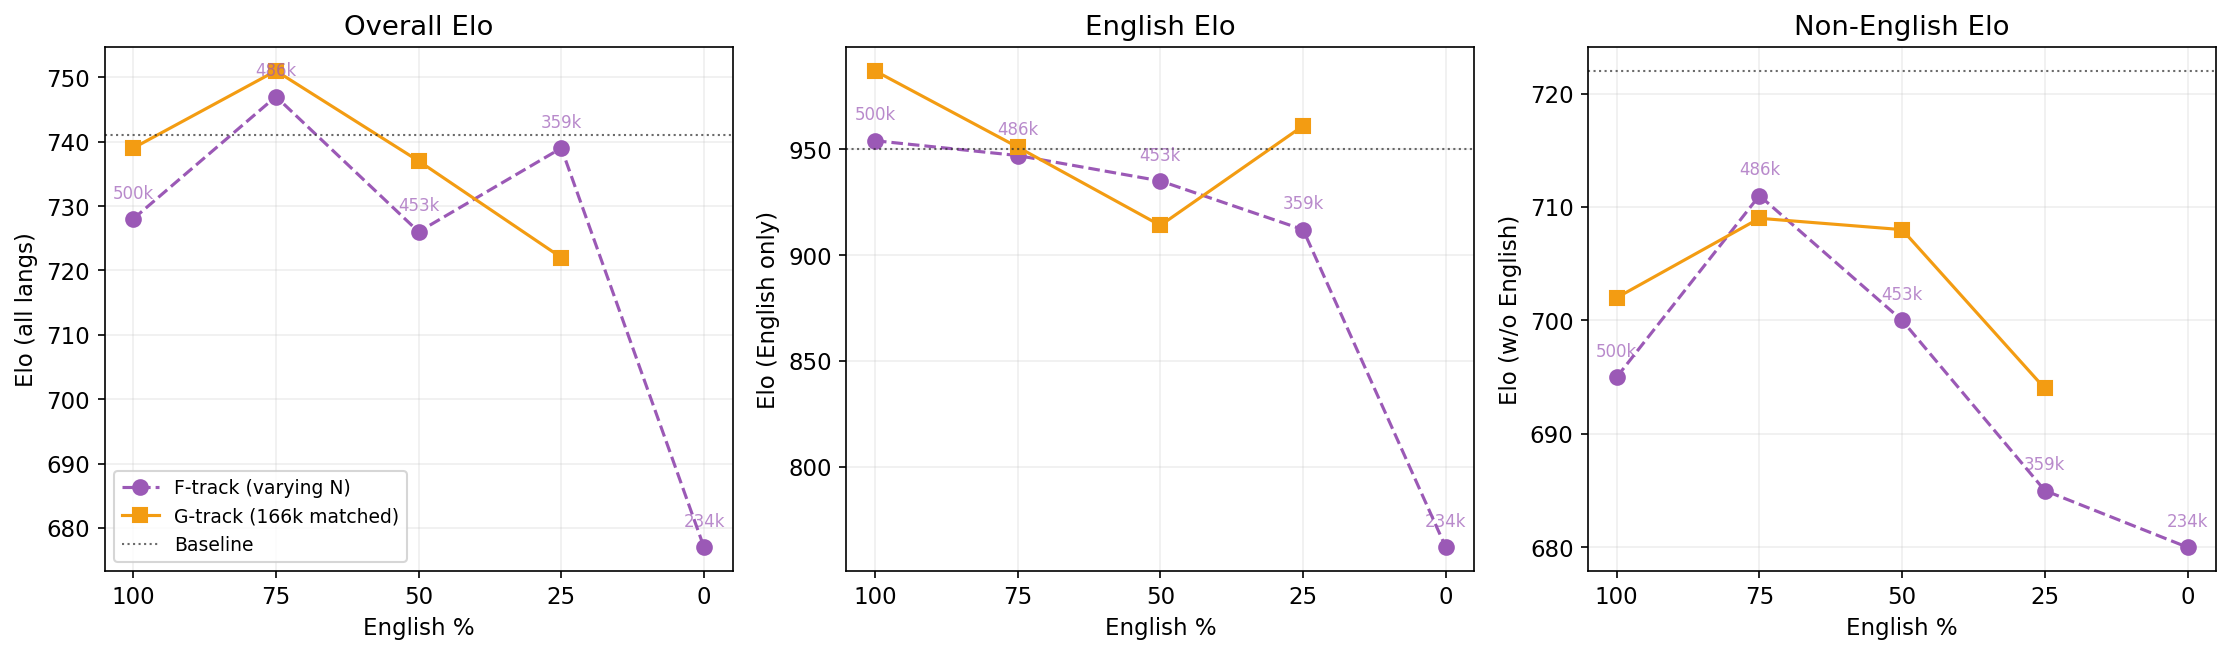
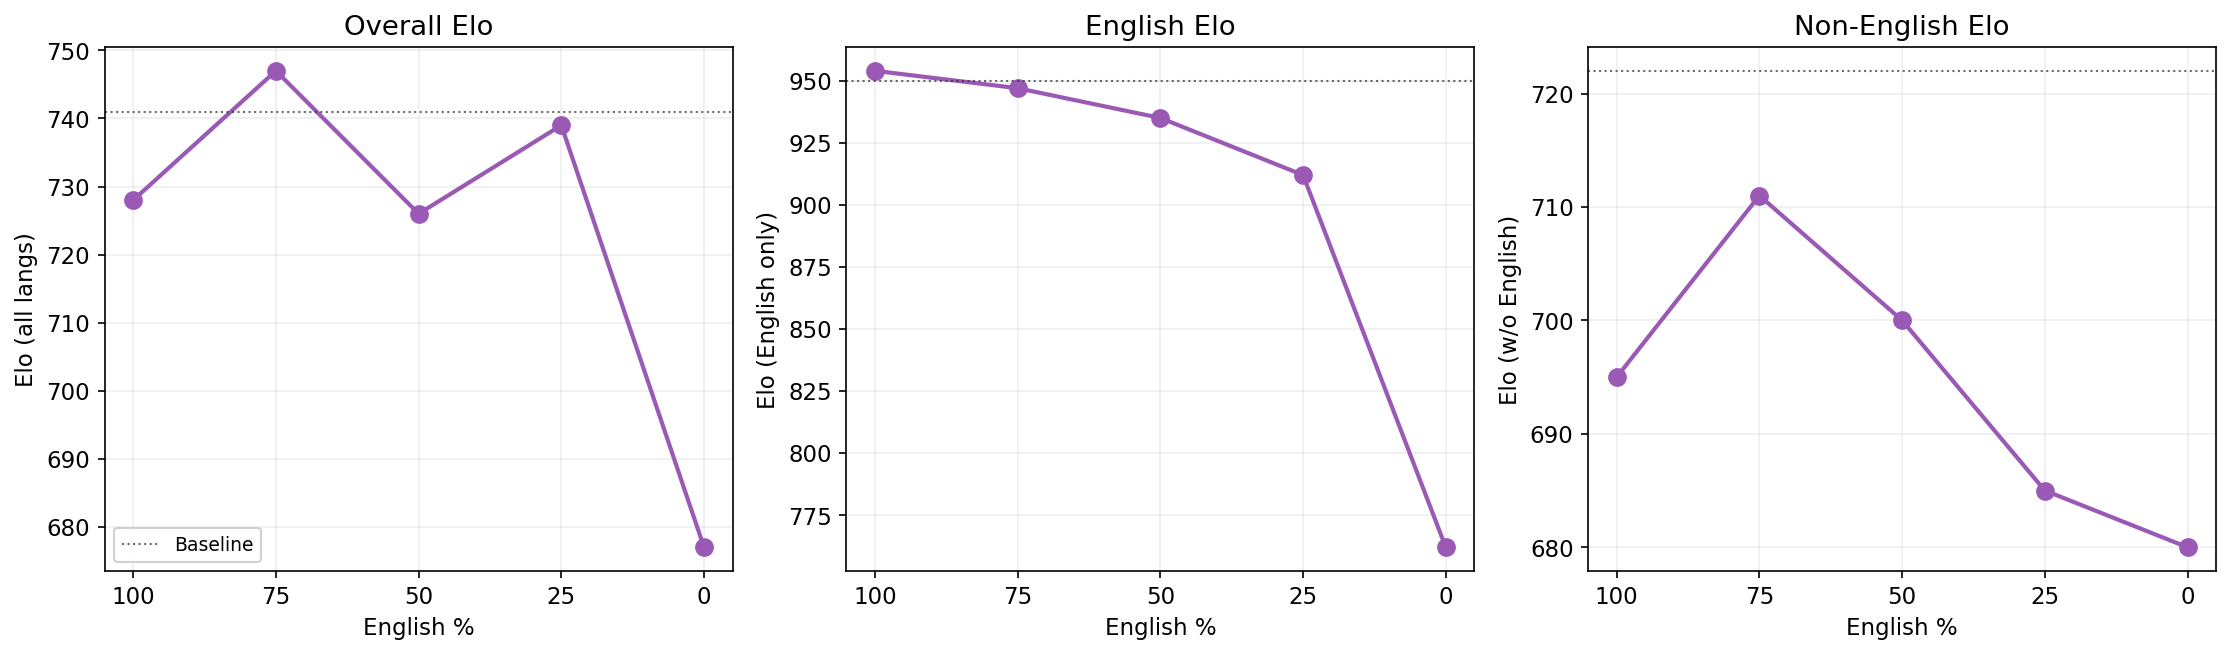
Simplify ratio curve: F-track only, no sample labels

diff --git a/oellm/experiments/multilingual_eu/results/plots/plot_fg_results.py b/oellm/experiments/multilingual_eu/results/plots/plot_fg_results.py
@@ -117,15 +117,7 @@ for ax, (metric, f_vals, g_vals, title) in zip(axes, [
     ("Elo (w/o English)", F_ELO_WOEN, G_ELO_WOEN, "Non-English Elo"),
 ]):
     # F-track
-    ax.plot(F_RATIOS, f_vals, "o--", color=TRACK_COLORS["F"], label="F-track (varying N)", markersize=7, linewidth=1.5)
-    for i, (r, v, n) in enumerate(zip(F_RATIOS, f_vals, F_N)):
-        ax.annotate(f"{n}k", (r, v), textcoords="offset points", xytext=(0, 10),
-                    ha="center", fontsize=8, color=TRACK_COLORS["F"], alpha=0.7)
-
-    # G-track (skip None)
-    g_r = [r for r, v in zip(G_RATIOS, g_vals) if v is not None]
-    g_v = [v for v in g_vals if v is not None]
-    ax.plot(g_r, g_v, "s-", color=TRACK_COLORS["G"], label="G-track (166k matched)", markersize=7, linewidth=1.5)
+    ax.plot(F_RATIOS, f_vals, "o-", color=TRACK_COLORS["F"], markersize=8, linewidth=2)
 
     # Baseline reference
     baseline_val = {"Elo (all langs)": 741, "Elo (English only)": 950, "Elo (w/o English)": 722}[metric]
@@ -138,7 +130,7 @@ for ax, (metric, f_vals, g_vals, title) in zip(axes, [
     ax.invert_xaxis()
     ax.grid(alpha=0.2)
 
-axes[0].legend(fontsize=9, loc="lower left")
+axes[0].legend(fontsize=9, loc="lower left", framealpha=0.9)
 fig.tight_layout()
 fig.savefig(f"{OUTDIR}/fg_ratio_curve.png", dpi=150, bbox_inches="tight")
 print(f"Saved {OUTDIR}/fg_ratio_curve.png")
